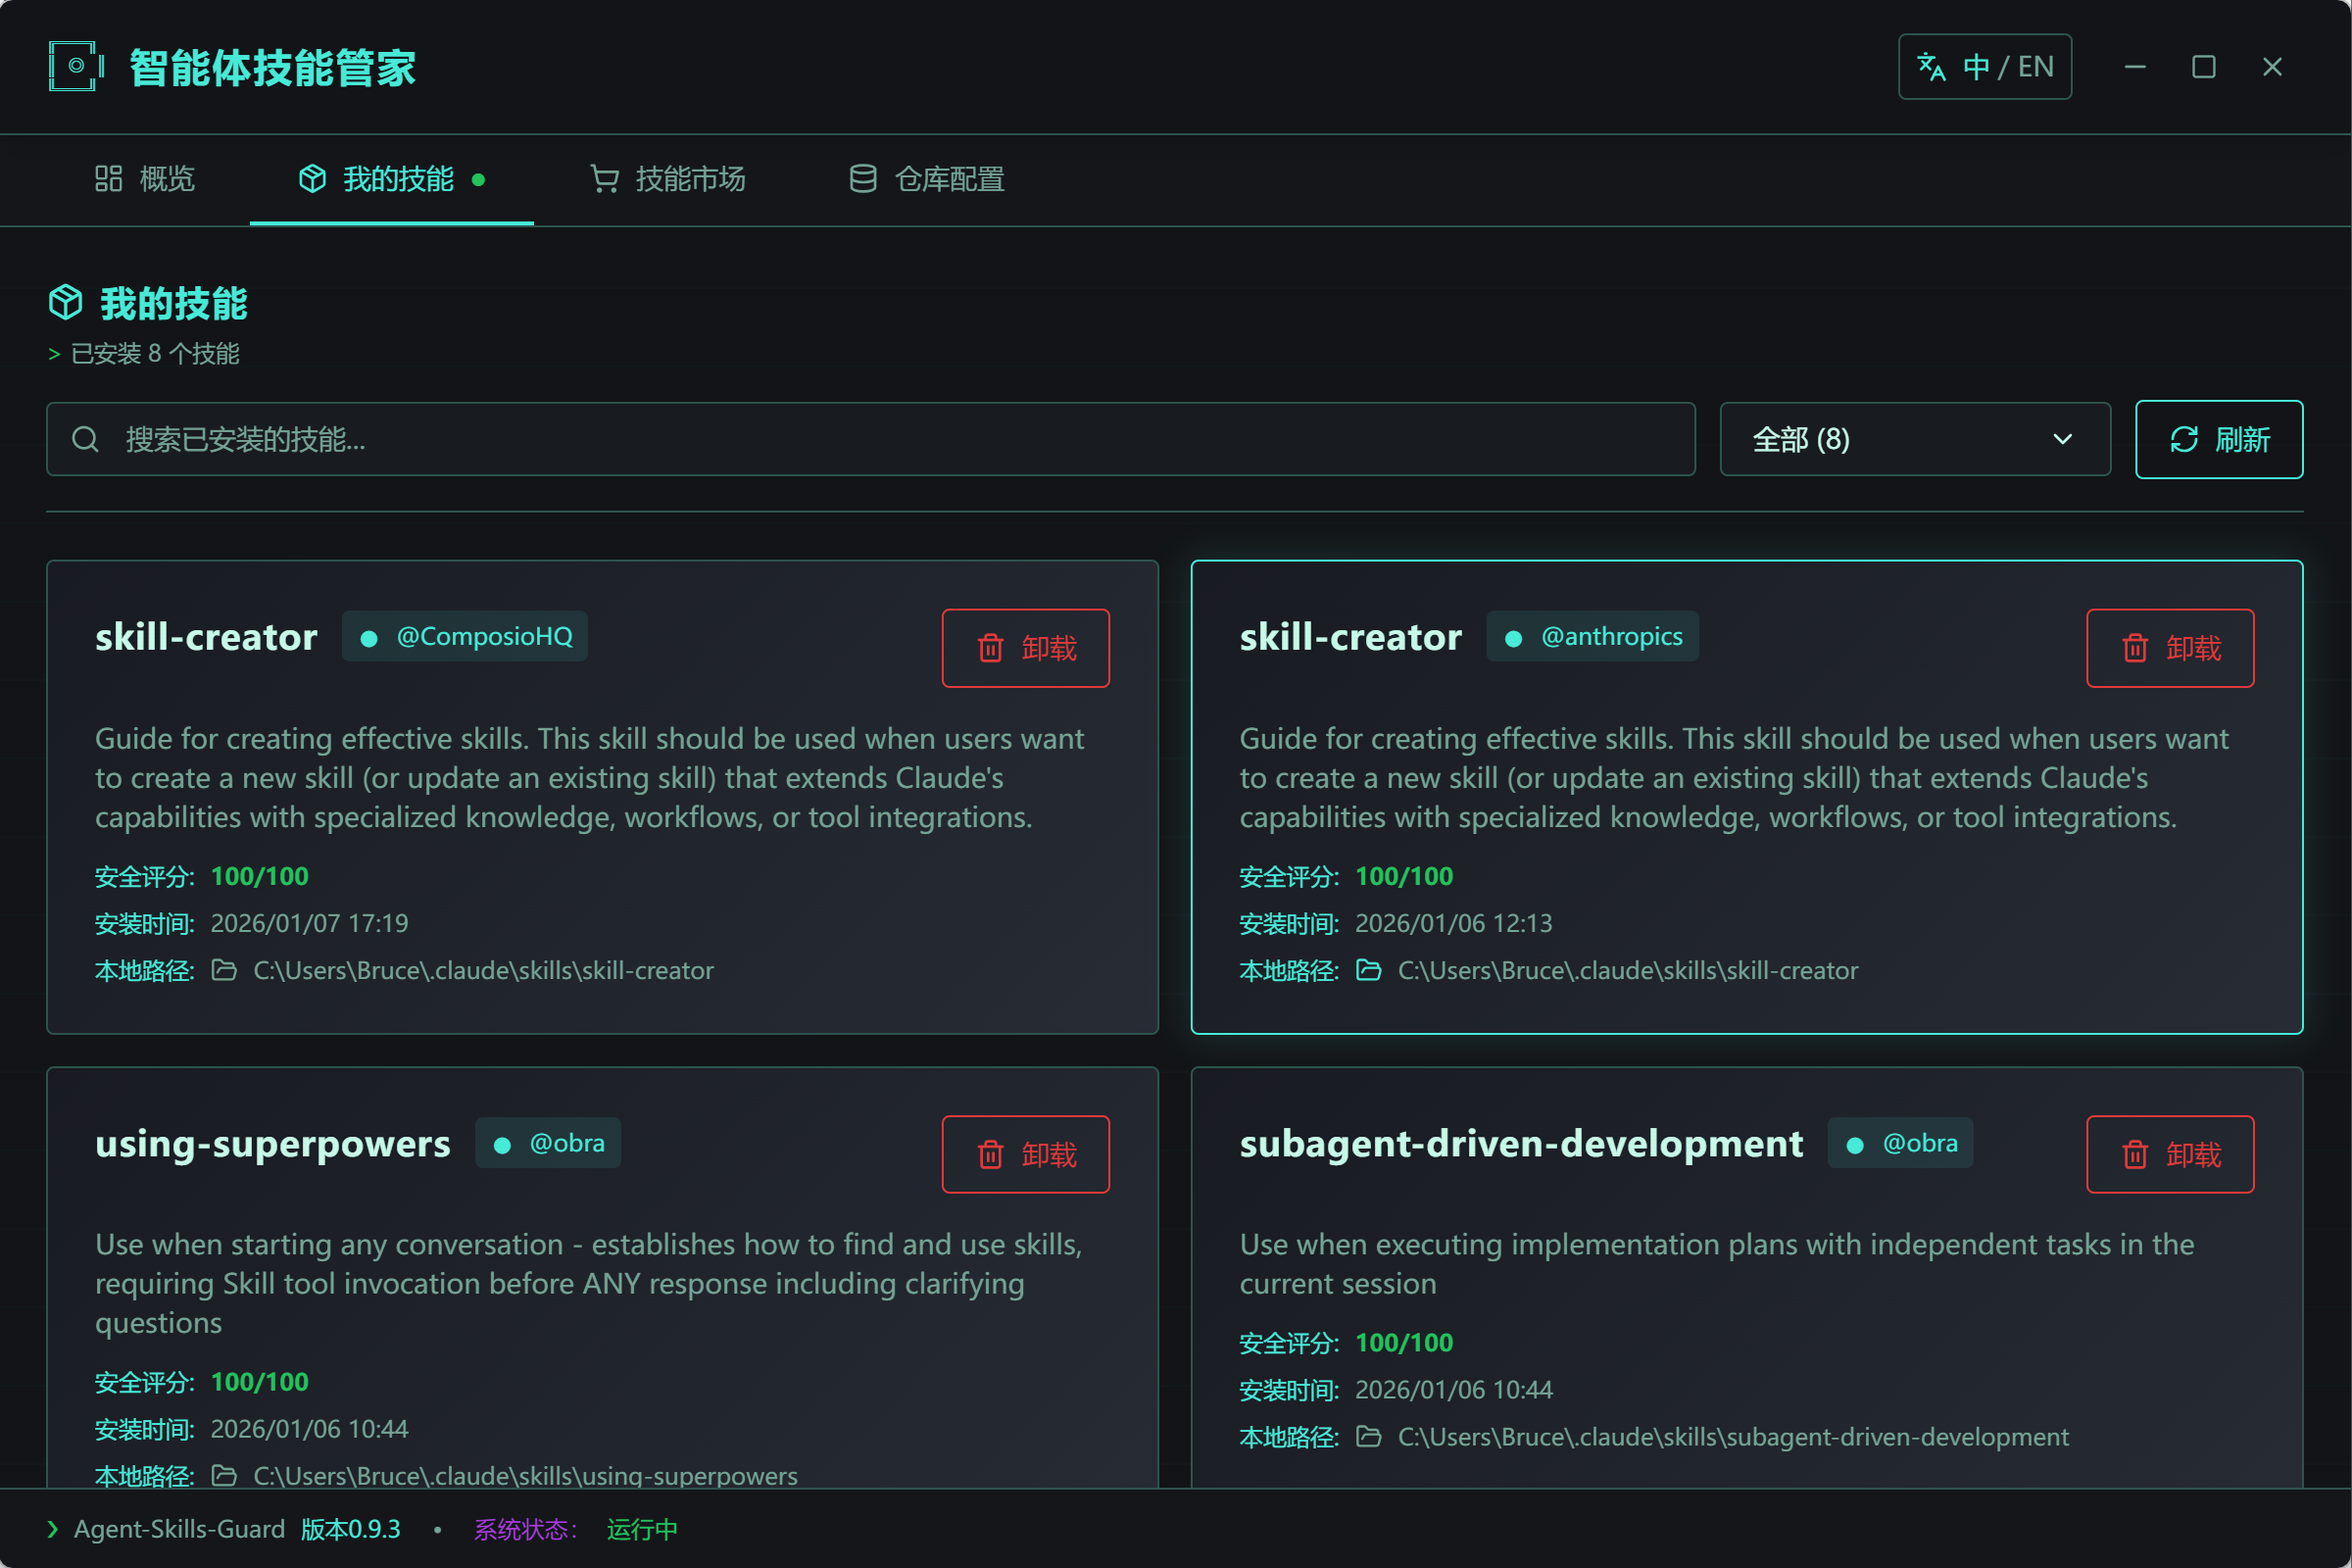
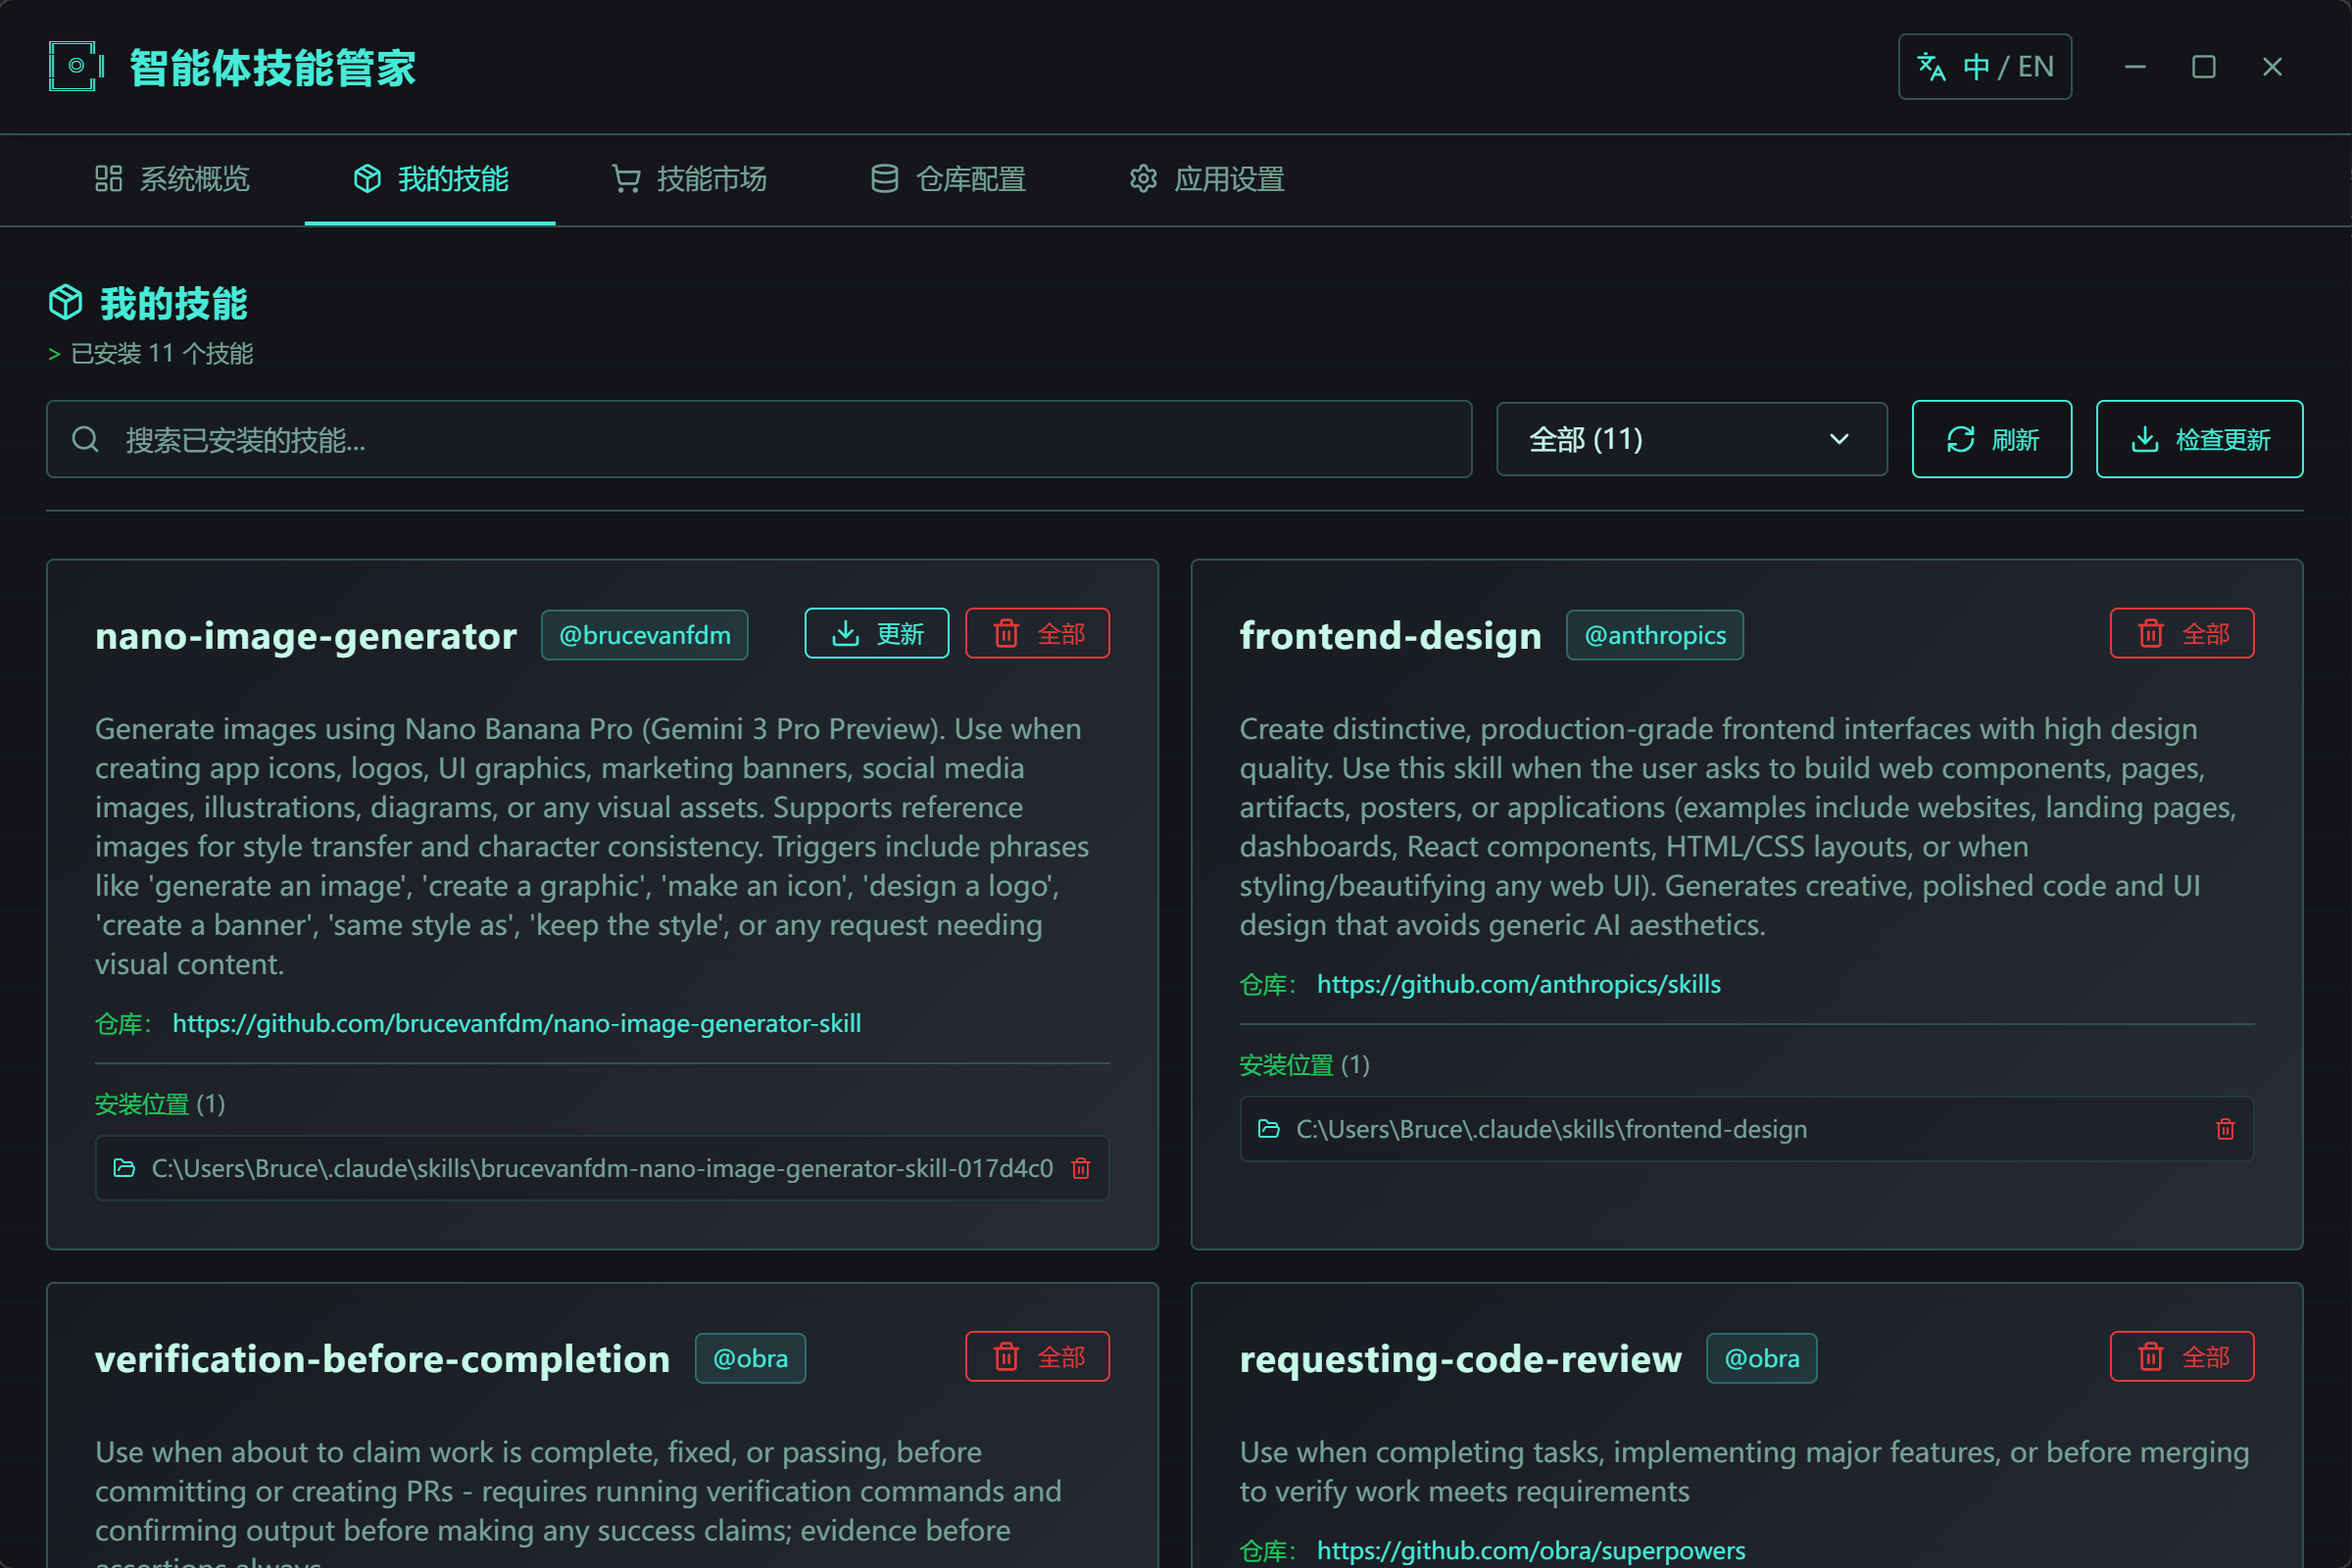
更新预览图

diff --git a/README.md b/README.md
@@ -45,6 +45,7 @@
 - **仓库配置**：添加和管理技能来源(内置精选社区技能，不断更新)
   ![仓库配置](screen-shot/repositories.png)
   ![仓库配置](screen-shot/featuredrepositories.png)
+  ![skills更新](screen-shot/skillsupdate.png)
 
 ### 🛡 智能安全扫描
 
@@ -202,15 +203,13 @@ pnpm build
 
 ## 🗺 后续规划
 
-- [X] **程序自动更新**：应用本身支持在线升级 ✅
-- [X] **精选技能仓库**：内置官方精选的优质技能 ✅
-- [X] **多路径安装**：支持自定义技能安装路径 ✅
-- [ ] **技能在线更新**：GitHub 有更新时自动提醒
+- [X] **程序自动更新**：应用本身支持在线升级
+- [X] **精选技能仓库**：内置官方精选的优质技能
+- [X] **多路径安装**：支持自定义技能安装路径
+- [X] **技能在线更新**：GitHub 有更新时自动提醒
 - [ ] **同名技能管理**：智能处理同名技能的兼容性
 - [ ] **增强安全扫描**：更多维度的安全检测
-- [ ] **技能依赖管理**：自动处理技能之间的依赖关系
 
----
 
 ## 🎨 技术栈
 
